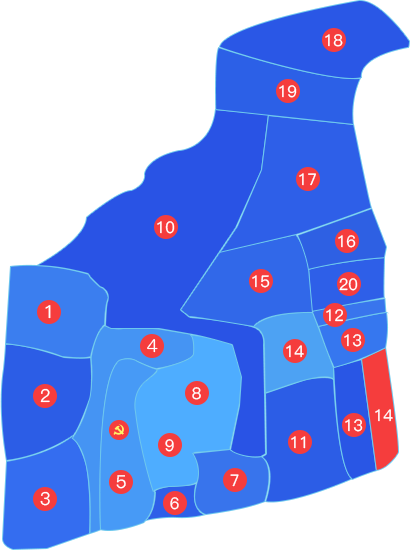
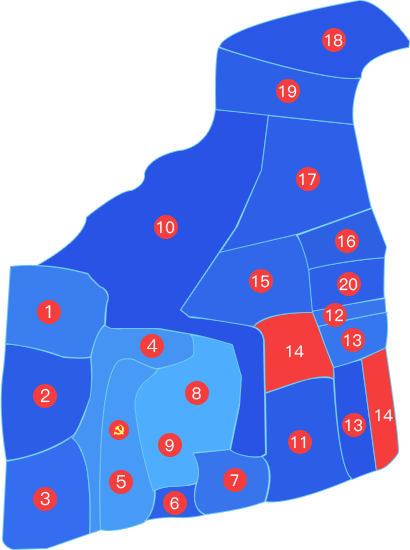
11
11

Changed region(s): [[0.6146, 0.5564, 0.8195, 0.7109]]

diff --git a/V1/djdata.html b/V1/djdata.html
@@ -139,6 +139,28 @@
 								<a href="javascript:;" style="left:1.65rem;top:19.15rem;" data-index="2">2</a>
 								<a href="javascript:;" style="left:1.6rem;top:24.25rem;" data-index="3">3</a>
 								<a href="javascript:;" style="left:6.95rem;top:16.65rem;" data-index="4">4</a>
+								<a href="javascript:;" style="left:5.5rem;top:23.6rem;" data-index="5">5</a>
+								<a href="javascript:;" style="left:8rem;top:24.6rem;" data-index="6">6</a>
+								
+								<a href="javascript:;" style="left:11rem;top:23.45rem;" data-index="7">7</a>
+								
+								<a href="javascript:;" style="left:9.15rem;top:19rem;" data-index="8">8</a>
+								<a href="javascript:;" style="left:7.95rem;top:21.4rem;" data-index="9">9</a>
+								<a href="javascript:;" style="left:7.8rem;top:10.7rem;" data-index="10">10</a>
+								
+								<a href="javascript:;" style="left:14.45rem;top:21.25rem;" data-index="11">11</a>
+								<a href="javascript:;" style="left:16.15rem;top:15.15rem;" data-index="12">12</a>
+								<a href="javascript:;" style="left:17rem;top:20.4rem;" data-index="13">13</a>
+								<a href="javascript:;" style="left:17rem;top:16rem;" data-index="13">13</a>
+								<a href="javascript:;" style="left:18.55rem;top:20rem;" data-index="14">14</a>
+								<a href="javascript:;" style="left:14.2rem;top:17rem;" data-index="14">14</a>
+								
+								<a href="javascript:;" style="left:12.5rem;top:13.5rem;" data-index="15">15</a>
+								<a href="javascript:;" style="left:16.8rem;top:11.4rem;" data-index="16">16</a>
+								<a href="javascript:;" style="left:14.65rem;top:8.3rem;" data-index="17">17</a>
+								<a href="javascript:;" style="left:16rem;top:1.35rem;" data-index="18">18</a>
+								<a href="javascript:;" style="left:13.8rem;top:3.95rem;" data-index="19">19</a>
+								<a href="javascript:;" style="left:16.8rem;top:13.4rem;" data-index="20">20</a>
 							</div>
 						</div>
 					</div>
@@ -383,12 +405,19 @@
 		</div>
 	</div>
 	
+	<script src="static/js/jquery-1.11.0.min.js" type="text/javascript" charset="utf-8"></script>
 <script src="static/js/common.js"></script>
-<script src="static/js/jquery-1.11.0.min.js" type="text/javascript" charset="utf-8"></script>
+<script src="static/js/scroll.js" type="text/javascript" charset="utf-8"></script>
 <script src="static/js/echarts.min.js" type="text/javascript" charset="utf-8"></script>
 <script src="static/layer/layer.js" type="text/javascript" charset="utf-8"></script>
 <script type="text/javascript">
-	
+//	$(function(){
+//		$(".section-item-content").myScroll({
+//			speed:40, //数值越大，速度越慢
+//			rowHeight:40 //li的高度
+//		});
+//	});
+
 		$('.map-list a').click(function(){
 			var index = $(this).index();
 			$('.map-box .map').eq(index).show().siblings().hide();
@@ -397,7 +426,6 @@
 	
 		// 地图切换
 		$('.map-num a').each(function(){
-			
 			$(this).hover(function(){
 				var index = $(this).attr('data-index');
 				$('.map-wrap img').attr('src','static/mapimg/'+index+'.png');
@@ -436,6 +464,13 @@
 						}
 
 						$('#cygj').append(str);
+						$('#cygj').append(str);
+						
+						$(".section-item-list").myScroll({
+			speed:40, //数值越大，速度越慢
+			rowHeight:68 //li的高度
+		});
+						
 						$('#cygj li').on('click', function(){
 					    layer.open({
 					      type: 1,
@@ -467,7 +502,7 @@
 				// 10S钟刷新
 				setInterval(function() {
 					tongjiDom()
-				}, 5000)
+				}, 50000)
 
 				function tongjiDom() {
 					$.ajax({
@@ -734,7 +769,7 @@
 					}
 					mapdata = d;
 					//注册地图
-					echarts.registerMap('chongqing', data);
+					echarts.registerMap('guizhou', data);
 	
 					mapChart.setOption(option = {
 						backgroundColor: '#0C0026',
@@ -742,12 +777,13 @@
 							trigger: 'item',
 							padding: 10,
 							formatter: function(params) {
-								return params.name + '<br/>' + '户籍所在地 ： ' + params.value + '人' + '<br/>现居地 ： ' + params.data.num + '人';
+								return '居民人数:111人<br/>'+'流动人口:1111人<br/>'+'党员总数:111111111人<br/>流动党员:111111111人<br/>商家量:11家<br/>党员示范店:111家<br/>'
+								//return params.name + '<br/>' + '户籍所在地 ： ' + params.value + '人' + '<br/>现居地 ： ' + params.data.num + '人';
 							}
 						},
 							
 						geo: {
-							map: 'chongqing',
+							map: 'guizhou',
 							label: {
 								emphasis: {
 									show: true,
@@ -802,7 +838,7 @@
 								},
 								series:[{
 						                    type: 'map',
-						                    mapType: 'chongqing',
+						                    mapType: 'guizhou',
 						                    roam: false,
 						                    nameMap:{
 						                        'cq':'重庆'
@@ -1127,6 +1163,7 @@
 							},
 							data: ['党员', '无党派人士', '非党员的其他党派']
 						},
+						tooltip:{},
 						series: [{
 							name: '政治面貌',
 							type: 'pie',
@@ -1244,6 +1281,10 @@
 							},
 							data: ['男', '女']
 						},
+						tooltip: {
+				        trigger: 'item',
+				        formatter: "你in我近底价和覅基恩"
+				    },
 						series: [{
 							name: '大学毕业生',
 							type: 'pie',
@@ -1256,6 +1297,13 @@
 								align: 'left',
 								verticalAlign: 'bottom'
 							},
+							 itemStyle: {
+                emphasis: {
+                    shadowBlur: 10,
+                    shadowOffsetX: 0,
+                    shadowColor: 'rgba(0, 0, 0, 0.5)'
+                }
+        },      
 							labelLine: {
 								normal: {
 									length: 0,
@@ -1556,7 +1604,7 @@
 
 			// 数字滚动增加特效
 			function updateNum(oldNum, newNum) {
-				//console.log(oldNum,newNum)
+				console.log(oldNum,newNum)
 				// 将数字转为字符串
 				var oldNum = oldNum.toString();
 				var newNum = newNum.toString();

diff --git a/V1/static/js/scroll.js b/V1/static/js/scroll.js
@@ -1,0 +1,51 @@
+// JavaScript Document
+(function($){
+	$.fn.myScroll = function(options){
+	//榛樿閰嶇疆
+	var defaults = {
+		speed:40,  //婊氬姩閫熷害,鍊艰秺澶ч€熷害瓒婃參
+		rowHeight:24 //姣忚鐨勯珮搴�
+	};
+	
+	var opts = $.extend({}, defaults, options),intId = [];
+	
+	function marquee(obj, step){
+	
+		obj.find("ul").animate({
+			marginTop: '-=1'
+		},0,function(){
+				var s = Math.abs(parseInt($(this).css("margin-top")));
+				if(s >= step){
+					$(this).find("li").slice(0, 1).appendTo($(this));
+					$(this).css("margin-top", 0);
+				}
+			});
+		}
+		
+		this.each(function(i){
+			var sh = opts["rowHeight"],speed = opts["speed"],_this = $(this);
+			intId[i] = setInterval(function(){
+				if(_this.find("ul").height()<=_this.height()){
+					clearInterval(intId[i]);
+				}else{
+					marquee(_this, sh);
+				}
+			}, speed);
+
+			_this.hover(function(){
+				clearInterval(intId[i]);
+			},function(){
+				intId[i] = setInterval(function(){
+					if(_this.find("ul").height()<=_this.height()){
+						clearInterval(intId[i]);
+					}else{
+						marquee(_this, sh);
+					}
+				}, speed);
+			});
+		
+		});
+
+	}
+
+})(jQuery);

diff --git a/V1/static/css/bigdata.css b/V1/static/css/bigdata.css
@@ -25,6 +25,8 @@ ul,ol,li{
 	background: #0C0026;
 	color: #fff;
 	overflow: hidden;
+	width:14.2rem
+	height:17rem
 }
 .container {
 	padding: 0 1.5rem;
@@ -139,10 +141,13 @@ ul,ol,li{
 	top:0;
 }
 #barchart {
-	width: 21.45rem;
-	height: 12rem;
+	width: 24rem;
+	height: 15.5rem;
 }
-
+#cygj {
+	height:10rem;
+	overflow: hidden;
+}
 
 .section2 {
 	width: 41.25rem;
@@ -341,12 +346,13 @@ ol li.active span {
 	display: block;
 	width: 1.5rem;
 	height:1.5rem;
-	background: #fff;
+	background: transparent;
 	position: absolute;	
 	top:0;
 	left:0;
 	z-index: 9999;
 	color: red;
+	font-size: 0;
 	/*width:6.95rem
 	height:16.65rem*/
 }

diff --git a/V1/static/js/common.js b/V1/static/js/common.js
@@ -13,4 +13,3 @@
 	};
 })();
 
-
